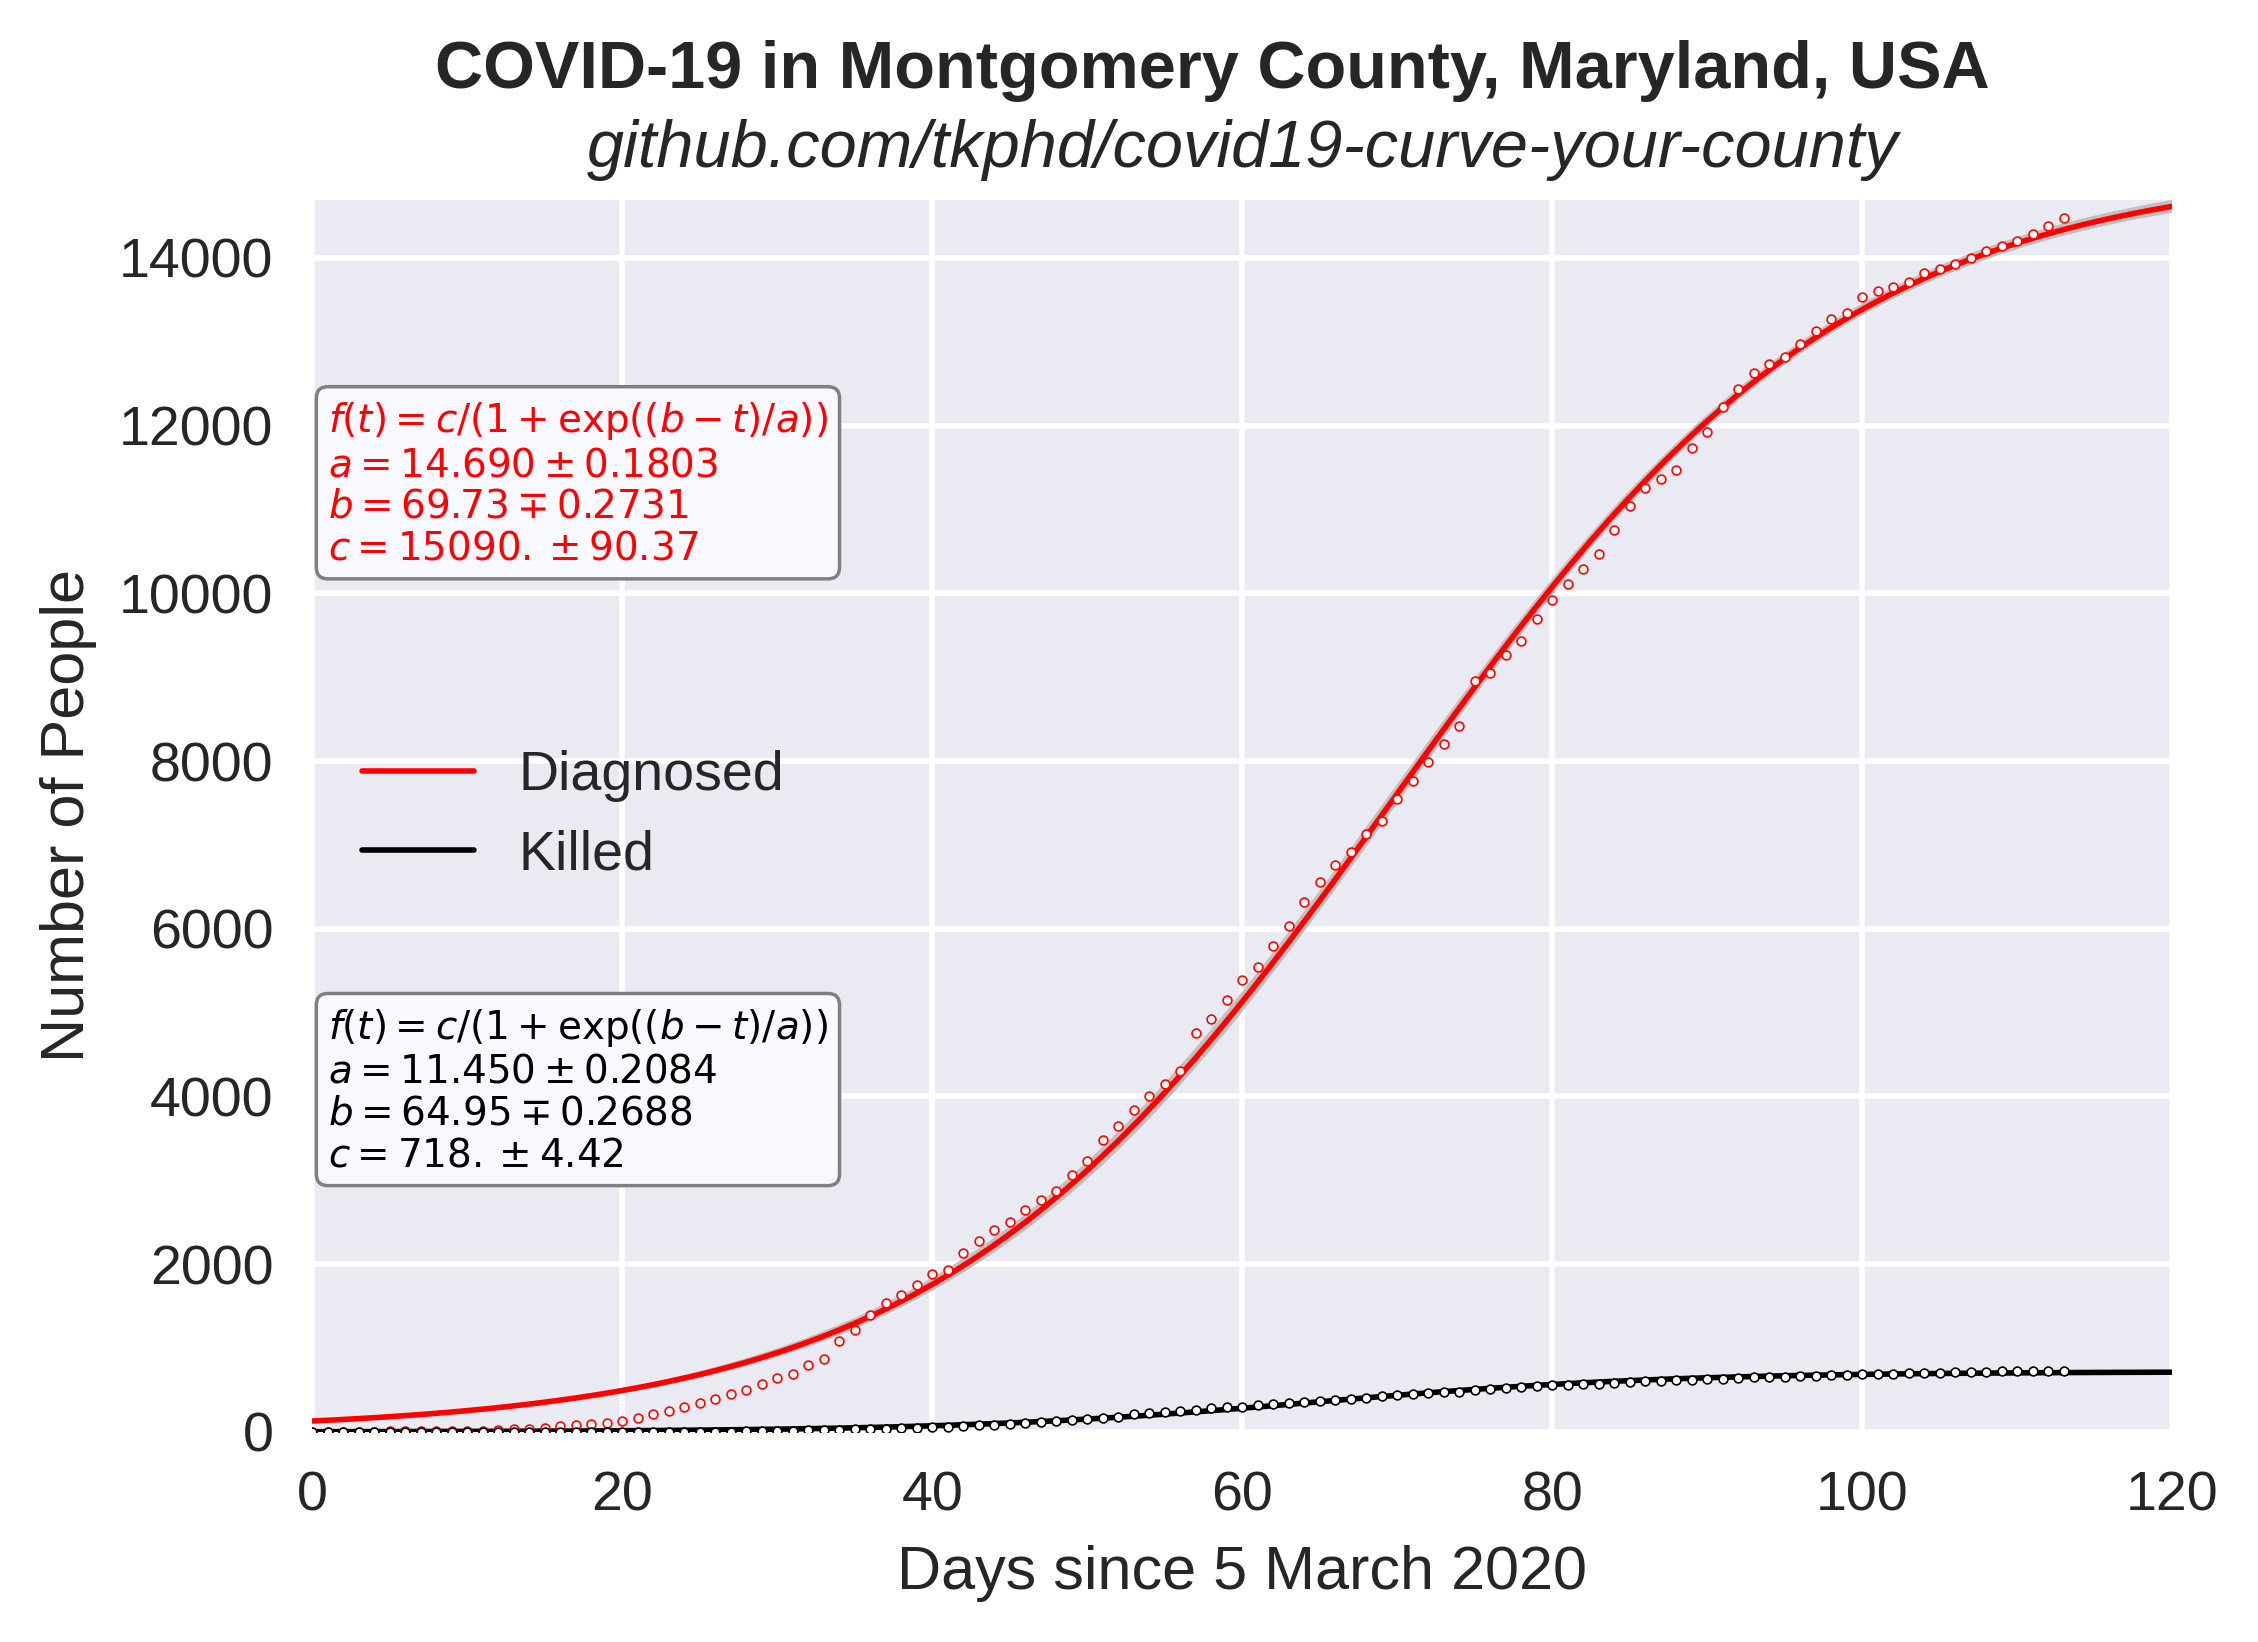
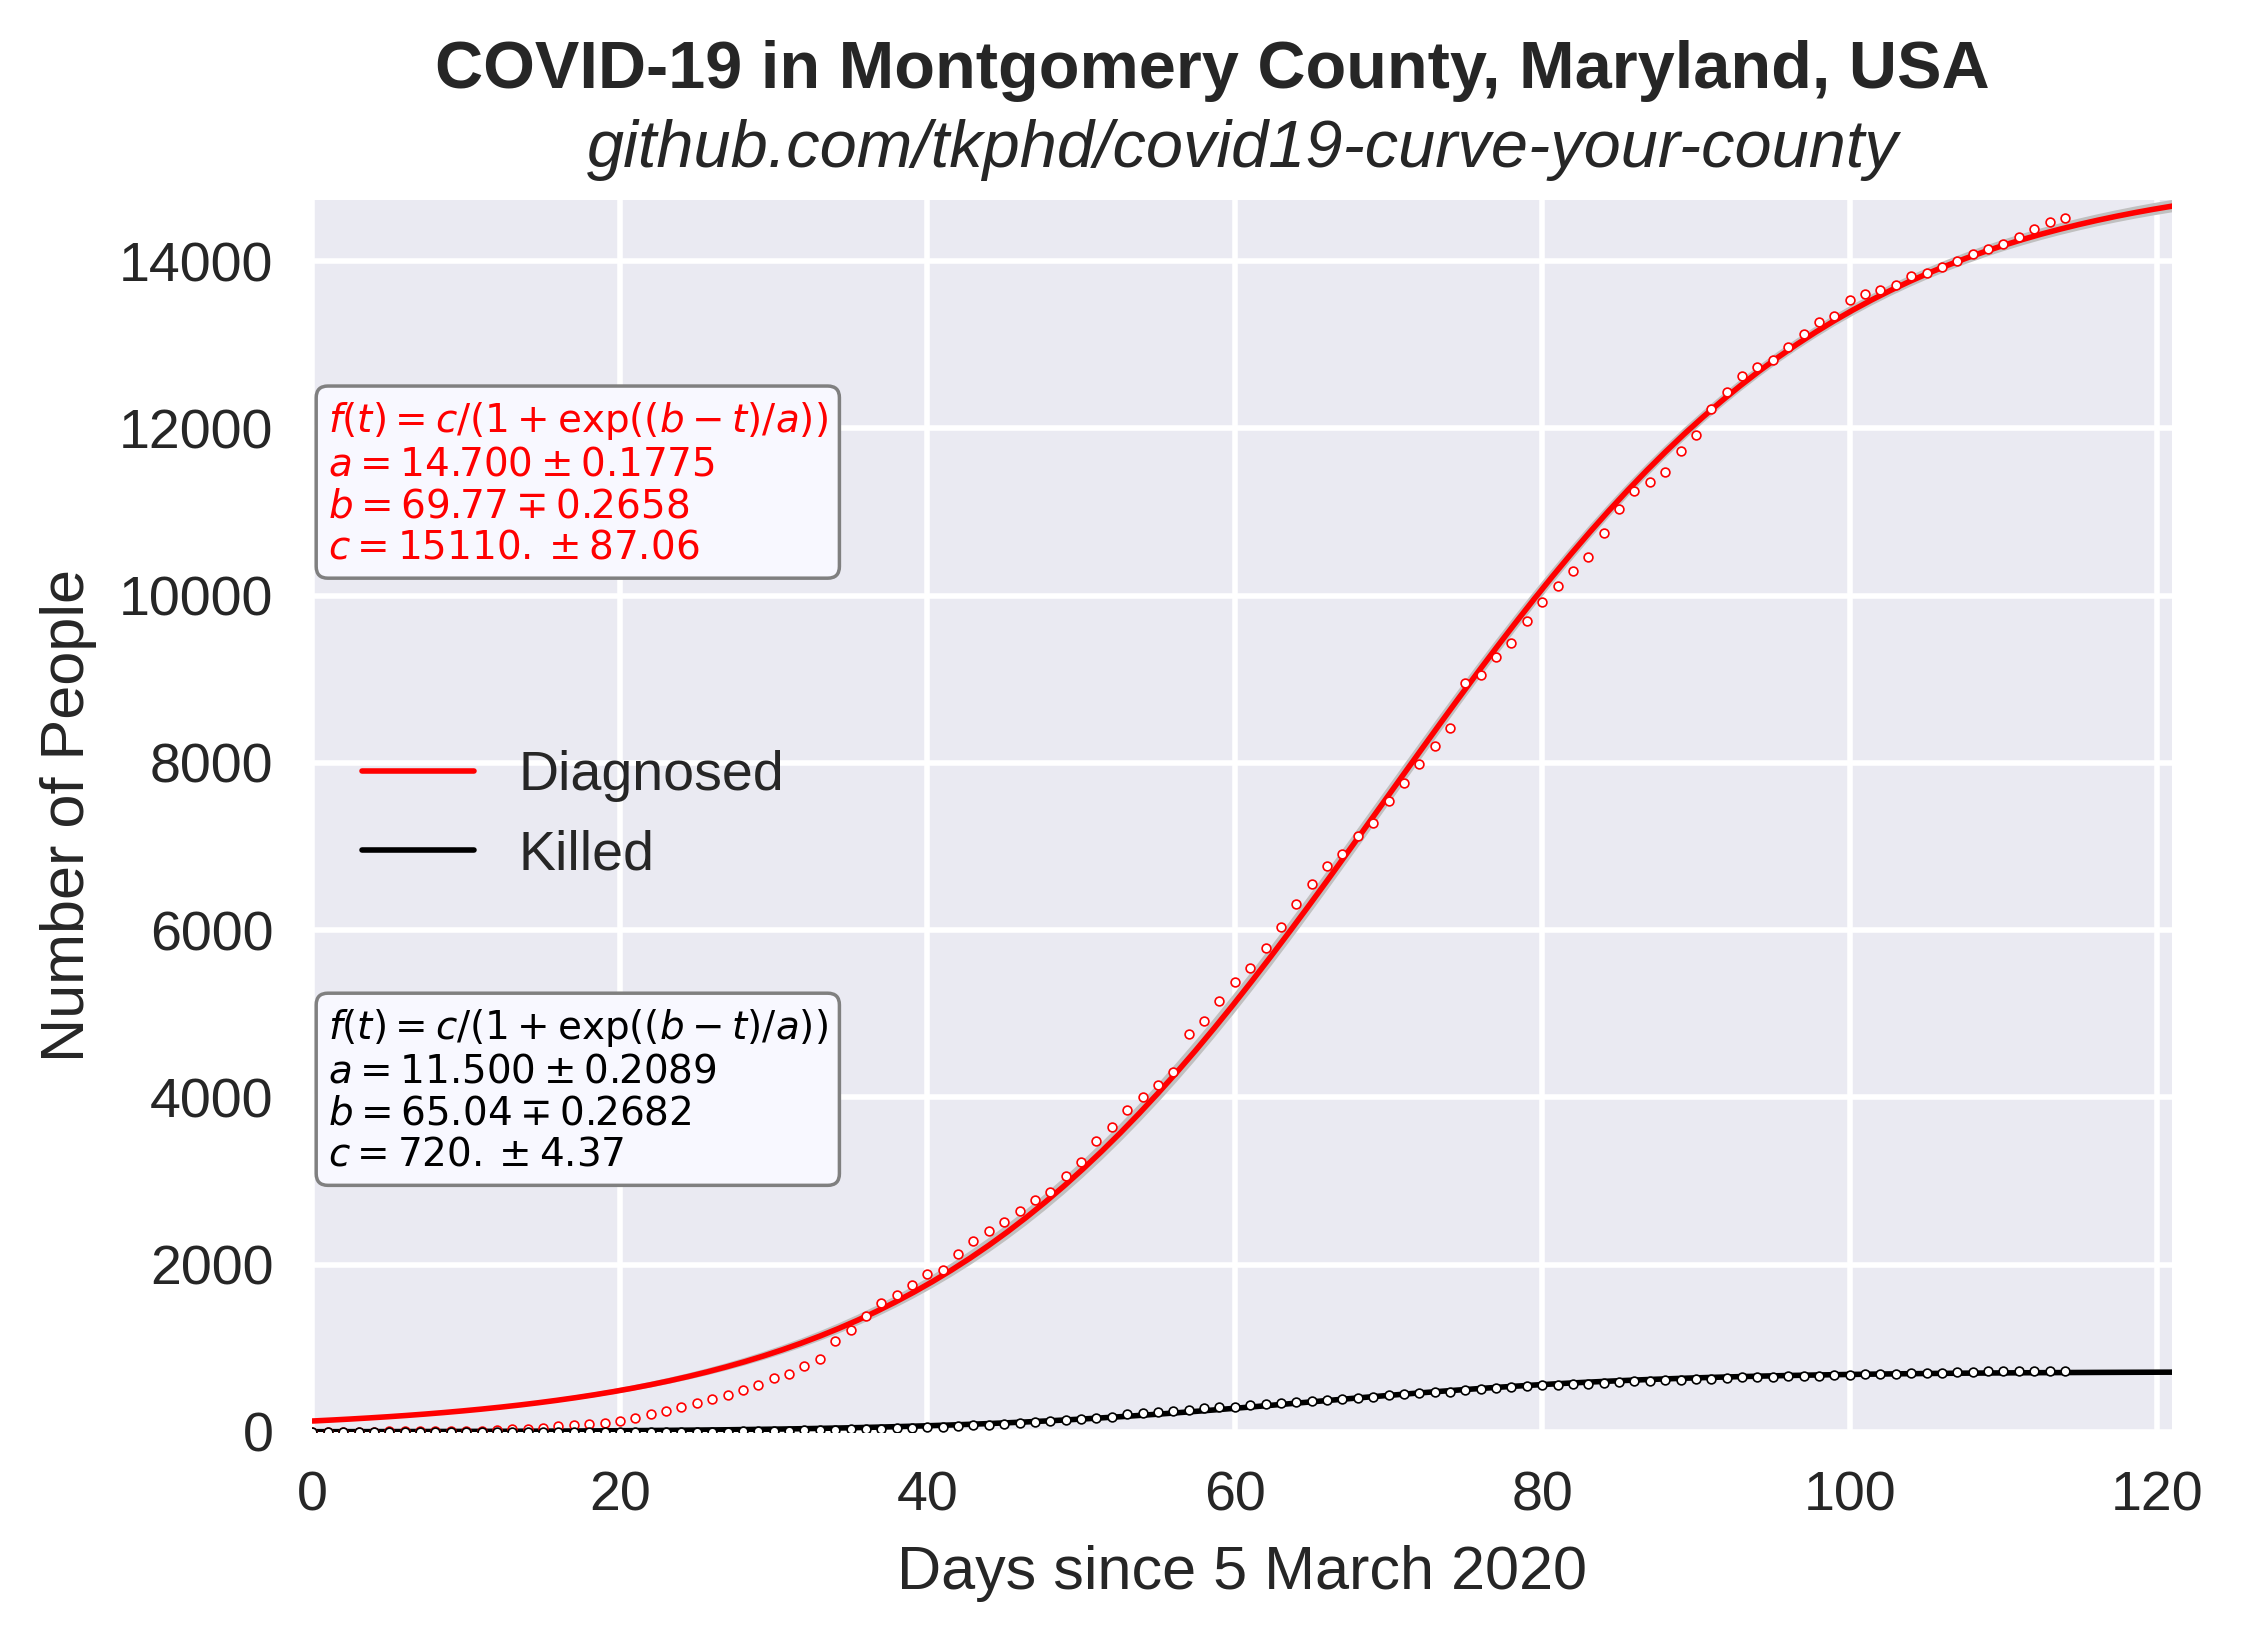
2020-06-27 update

diff --git a/exponential.py b/exponential.py
@@ -62,21 +62,11 @@ def f_log(t, a, b, c):
 
 
 def df_log(t, a, b, c):
-    # Jacobian: df/dp for p=(a, b, c)                              # SymPy-simplified quotients of exponentials
-    return np.array(
-        [
-            c
-            * (b - t)
-            / (
-                4 * a ** 2 * np.cosh((b - t) / (2 * a)) ** 2
-            ),  # c*(b - t)*np.exp((b - t)/a)/(a**2*(np.exp((b - t)/a) + 1)**2),
-            -c
-            / (
-                4 * a * np.cosh((b - t) / (2 * a)) ** 2
-            ),  # -c*np.exp((b - t)/a)/(a*(np.exp((b - t)/a) + 1)**2),
-            1 / (np.exp((b - t) / a) + 1),
-        ]
-    ).T
+    # Jacobian: df/dp for p=(a, b, c)
+    # SymPy-simplified quotients of exponentials
+    return np.array([c * (b - t) / (4 * a ** 2) * (1 / np.cosh((b - t) / (2 * a)) ** 2),  # c*(b - t)*np.exp((b - t)/a)/(a**2*(np.exp((b - t)/a) + 1)**2),
+                     -c / (4 * a) * (1 / np.cosh((b - t) / (2 * a)) ** 2),                # -c*np.exp((b - t)/a)/(a*(np.exp((b - t)/a) + 1)**2),
+                     1 / (np.exp((b - t) / a) + 1)]).T
 
 
 def sigfig(x, n):
